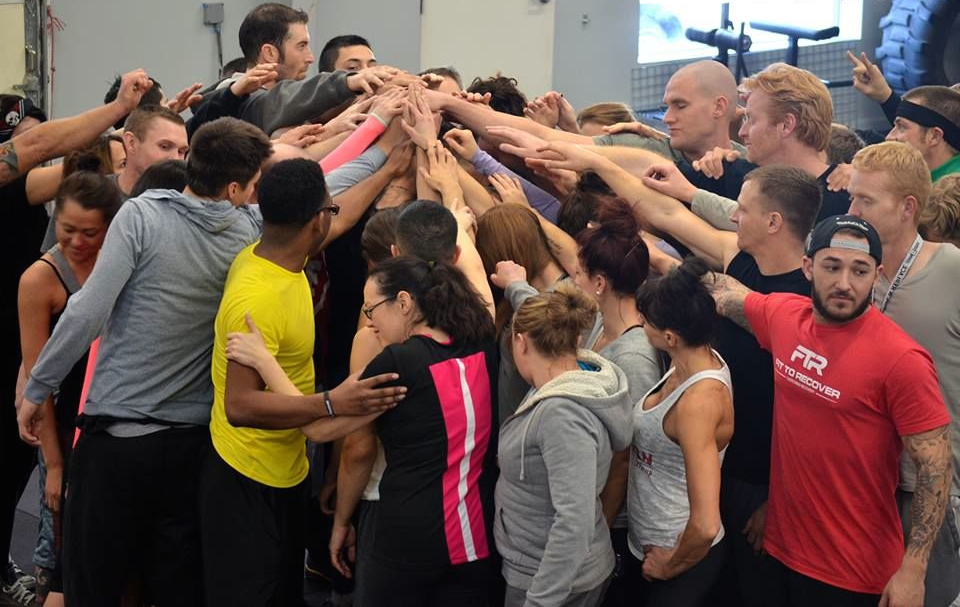
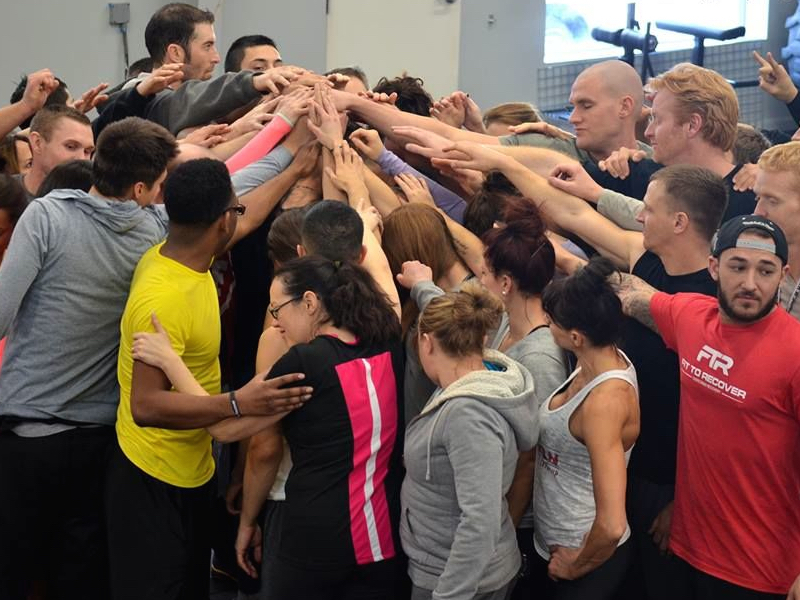
just staff pics / bios

diff --git a/client/src/components/aboutus/sponsors.jsx b/client/src/components/aboutus/sponsors.jsx
@@ -1,7 +1,12 @@
 import React, { Component } from 'react'
 import {  } from 'react-router-dom'
 import '../../styles/sponsors.css'
-import { } from 'semantic-ui-react'
+import { Image, Grid, List } from 'semantic-ui-react'
+import sponsors from '../photodump/sponserBanner.jpeg'
+import huddle from '../photodump/bootcamp-end-huddle.jpeg'
+import lugu from '../photodump/lugu2017.jpeg'
+import silver from '../photodump/silverStar.png'
+
 
 class Sponsors extends Component {
 
@@ -12,17 +17,94 @@ class Sponsors extends Component {
 
 			<div className="sponsorsTop img-responsive" style={styles.beforeafter}>
 				<h1 className="sponsorsTopHeading" style={styles.beforeAfterWords}>Sponsors and Partners</h1>
-				<h3 className="sponsorsTopSecond">From the entire FTR community,<br/>Thank You. </h3>
 			</div>
 
-			<form action="https://www.paypal.com/cgi-bin/webscr" method="post" target="_top">
-				<input type="hidden" name="cmd" value="_s-xclick" />
-				<input type="hidden" name="hosted_button_id" value="LF6G389XTHZR6" />
-				<input type="image" src="https://www.paypalobjects.com/en_US/i/btn/btn_donateCC_LG.gif" border="0" name="submit" alt="PayPal - The safer, easier way to pay online!" />
-				<img alt="" border="0" src="https://www.paypalobjects.com/en_US/i/scr/pixel.gif" width="1" height="1" />
-			</form>
+			<Grid>
+	      <Grid.Column className="tripGrid" mobile={16} tablet={4} computer={4}>
+	        <form action="https://www.paypal.com/cgi-bin/webscr" method="post" target="_blank" rel="noopener noreferrer">
+						<input type="hidden" name="cmd" value="_s-xclick"/>
+						<input type="hidden" name="hosted_button_id" value="LF6G389XTHZR6"/>
+						<input type="image" src="https://www.paypalobjects.com/en_US/i/btn/btn_donateCC_LG.gif" border="0" name="submit" alt="PayPal - The safer, easier way to pay online!"/>
+						<img alt="" border="0" src="https://www.paypalobjects.com/en_US/i/scr/pixel.gif" width="1" height="1"/>
+					</form>
+	      </Grid.Column>
+	      <Grid.Column className="tripGrid" mobile={16} tablet={8} computer={8}>
+	        <div className="sponsorLevels" >
+			    	Interested in becoming an FTR Sponsor?<br />We'd love to have you.<br/>Read more about Sponsorship levels
+			    	<a href="https://nebula.wsimg.com/987062255bac1e683351c9b4742e2c62?AccessKeyId=6C572ACEE6337077909C&disposition=0&alloworigin=1" target="_blank" rel="noopener noreferrer">
+			    	&nbsp;here.</a>
+			    </div>
+	      </Grid.Column>
+	      <Grid.Column className="tripGrid" mobile={16} tablet={4} computer={4}>
+	        <Image centered src={silver} />
+	      </Grid.Column>
+	    </Grid>
 
-				
+			<Grid className="sponsors">
+				<Grid.Column className="sponsorsColumn" mobile={16} tablet={5} computer={5}>
+					<Image className="leftImage" src={lugu} />
+					<List>
+				      <List.Header className="donorColumnHeader">Special thanks to our Champion Donors:</List.Header>
+					    <List.Item as='a' className="singleDonor" href="http://www.gsecclesfoundation.org/" target="_blank" rel="noopener noreferrer">
+					    	The George S. and Dolores D. Eccles Foundation</List.Item>
+					    <List.Item as='a' className="singleDonor" href="http://sorensonlegacyfoundation.org/" target="_blank" rel="noopener noreferrer">
+					    	The Sorenson Legacy Foundation</List.Item>
+					    <List.Item as='a' className="singleDonor" href="https://addictionfree.com/" target="_blank" rel="noopener noreferrer">
+					    	Cold Creek Behavioral Health</List.Item>
+					    <List.Item as='a' className="singleDonor" href="http://elevatedbilling.com/" target="_blank" rel="noopener noreferrer">
+					    	Elevated Billing</List.Item>
+					    <List.Item as='a' className="singleDonor" href="https://www.petzl.com/fondation/fondation-petzl?language=en#.Wa-nN9N95TY" target="_blank" rel="noopener noreferrer">
+					    	Petzl Foundation</List.Item>
+					    <List.Item as='a' className="singleDonor" href="https://uw.org/" target="_blank" rel="noopener noreferrer">
+					    	United Way of Salt Lake</List.Item>
+				    	<List.Item className="singleDonor" >
+				    		Nicholas Zurn Scholarship Fund</List.Item>
+				  </List>
+				</Grid.Column>
+
+				<Grid.Column className="xsColumn hidden-sm hidden-md hidden-lg hidden-xl">	
+					<List>
+				      <List.Header className="donorColumnHeader">A BIG Thank You to our Recovery Wall partners</List.Header>
+					    <List.Item as='a' className="singleDonor" href="http://www.ascendrecovery.com/" target="_blank" rel="noopener noreferrer">
+					    	Ascend Recovery</List.Item>
+					    <List.Item as='a' className="singleDonor" href="http://renaissanceranch.net/" target="_blank" rel="noopener noreferrer">
+					    	Renaissance Ranch Outpatient</List.Item>
+					    <List.Item as='a' className="singleDonor" href="http://turningpointcenters.com/" target="_blank" rel="noopener noreferrer">
+					    	Turning Point</List.Item>
+					    <List.Item as='a' className="singleDonor" href="http://slco.org/youth/" target="_blank" rel="noopener noreferrer">
+					    	Salt Lake County Youth Services</List.Item>
+					    <List.Item as='a' className="singleDonor" href="http://www.saltlakebehavioralhealth.com/military-mental-health-program/strong-hope-womens-mental-health-program" target="_blank" rel="noopener noreferrer">
+					    	Strong Hope / Salt Lake Behavioral Health</List.Item>
+					    <List.Item as='a' className="singleDonor" href="https://www.woundedwarriorproject.org/" target="_blank" rel="noopener noreferrer">
+					    	Wounder Warrior Project</List.Item>
+				  </List>
+				</Grid.Column>
+
+				<Grid.Column mobile={16} tablet={6} computer={6}>
+	        <Image className="sponsorsPic" src={sponsors} />
+	      </Grid.Column>
+
+				<Grid.Column className="sponsorsColumn hidden-xs" mobile={0} tablet={5} computer={5}>	
+					<Image className="rightImage" src={huddle} />
+					<List>
+				      <List.Header className="donorColumnHeader">A BIG Thank You to our Recovery Wall partners</List.Header>
+					    <List.Item as='a' className="singleDonor" href="http://www.ascendrecovery.com/" target="_blank" rel="noopener noreferrer">
+					    	Ascend Recovery</List.Item>
+					    <List.Item as='a' className="singleDonor" href="http://renaissanceranch.net/" target="_blank" rel="noopener noreferrer">
+					    	Renaissance Ranch Outpatient</List.Item>
+					    <List.Item as='a' className="singleDonor" href="http://turningpointcenters.com/" target="_blank" rel="noopener noreferrer">
+					    	Turning Point</List.Item>
+					    <List.Item as='a' className="singleDonor" href="http://slco.org/youth/" target="_blank" rel="noopener noreferrer">
+					    	Salt Lake County Youth Services</List.Item>
+					    <List.Item as='a' className="singleDonor" href="http://www.saltlakebehavioralhealth.com/military-mental-health-program/strong-hope-womens-mental-health-program" target="_blank" rel="noopener noreferrer">
+					    	Strong Hope / Salt Lake Behavioral Health</List.Item>
+					    <List.Item as='a' className="singleDonor" href="https://www.woundedwarriorproject.org/" target="_blank" rel="noopener noreferrer">
+					    	Wounder Warrior Project</List.Item>
+				  </List>
+				</Grid.Column>
+
+			</Grid>
+
 	</div>
 		)
 	}

diff --git a/client/src/styles/sponsors.css b/client/src/styles/sponsors.css
@@ -1,0 +1,98 @@
+.sponsorsTop {
+	height: 100px;
+	display: flex;
+	flex-direction: column;
+	justify-content: center;
+	align-items: center;
+}
+
+.sponsorsTopHeading {
+	margin-bottom: 0;
+	font-size: 56px;
+}
+
+.tripGrid {
+	display: flex;
+	justify-content: center;
+	align-self: center;
+	text-align: center;
+}
+
+.sponsorLevels {
+	font-size: 24px;
+	line-height: 1.2em;
+}
+
+.sponsorsColumn{
+	margin-top: 130px;
+}
+
+.donorColumnHeader {
+	font-size: 24px;
+	padding-bottom: 20px;
+	line-height: 1.1;
+	text-align: center;
+}
+
+.leftImage {
+	width: 90%;
+  margin: 0 auto;
+  border-radius: 5px;
+}
+
+.rightImage {
+	width: 90%;
+  margin: 0 auto;
+  border-radius: 5px;
+}
+
+.singleDonor {
+	font-size: 1.2em;
+	margin: 10px 0;
+	text-align: center;
+}
+
+@media (max-width: 992px) {
+	.sponsorsColumn{
+		margin-top: 320px;
+	}
+	.sponsorLevels {
+		font-size: 20px;
+		line-height: 1.2em;
+	}
+}
+
+@media (max-width: 768px) {
+	.sponsorsPic {
+		margin: 0 auto;
+		margin-bottom: 30px;
+	}
+	.xsColumn {
+		width: 100% !important;
+	}
+	.sponsorsColumn{
+		margin-top: 0px;
+	}
+}
+
+@media (max-width: 575px) {
+	.sponsorsTopHeading {
+		margin-bottom: 0;
+		font-size: 56px;
+	}
+	.sponsorsTop {
+		height: 100px;
+	}
+}
+
+@media (max-width: 575px) {
+	.sponsorsTopHeading {
+		font-size: 24px;
+	}
+}
+
+@media (max-width: 400px) {
+	.sponsorLevels {
+		font-size: 16px;
+	}
+}

diff --git a/client/src/components/ftr_home.jsx b/client/src/components/ftr_home.jsx
@@ -166,7 +166,7 @@ class Home extends Component {
 											width="75" 
 											height="75" />
 									<h3 className="qTitle" style={styles.qTitle}>Community Service</h3>
-									<p className="qDesc" style={styles.qDesc}>Being selfless is be a big part of the recovery journey. Being of service allows us to step out of ourselves and our issues, and give back.</p>
+									<p className="qDesc" style={styles.qDesc}>Being selfless is a big part of the recovery journey. Being of service allows us to step out of ourselves and our issues, and give back.</p>
 									<a href="/communityservice" target="_blank" rel="noopener noreferrer" style={styles.serviceButton} className="serviceButton">Explore Community Service</a>
 							</div>
 						</Grid.Column>

diff --git a/client/src/styles/home.css b/client/src/styles/home.css
@@ -220,6 +220,9 @@ a.nutritionButton:hover {
 	.pEA {
 		height: 500px !important;
 	}
+	.homeSingleInsta {
+		width: 47% !important;
+	}
 }
 
 @media (max-width: 540px){
